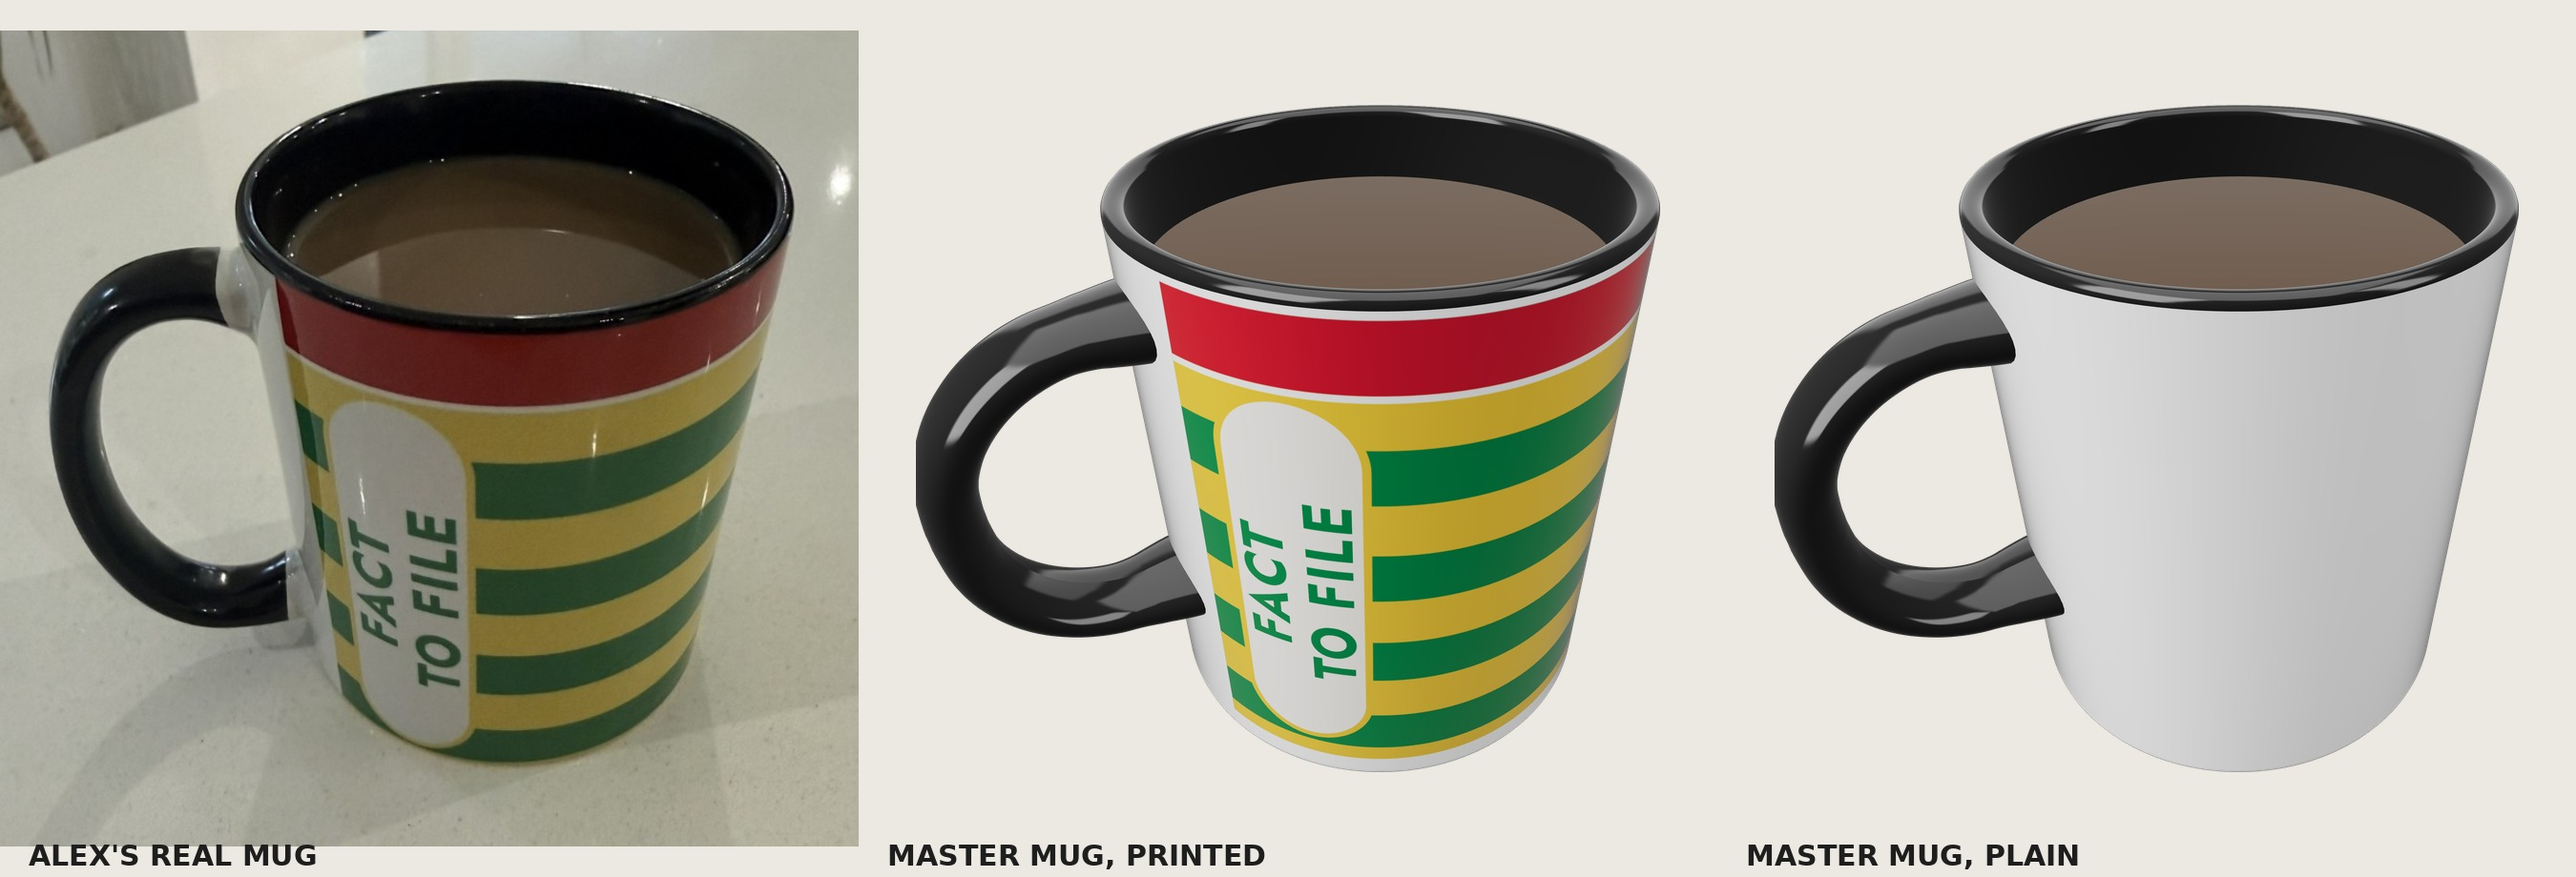
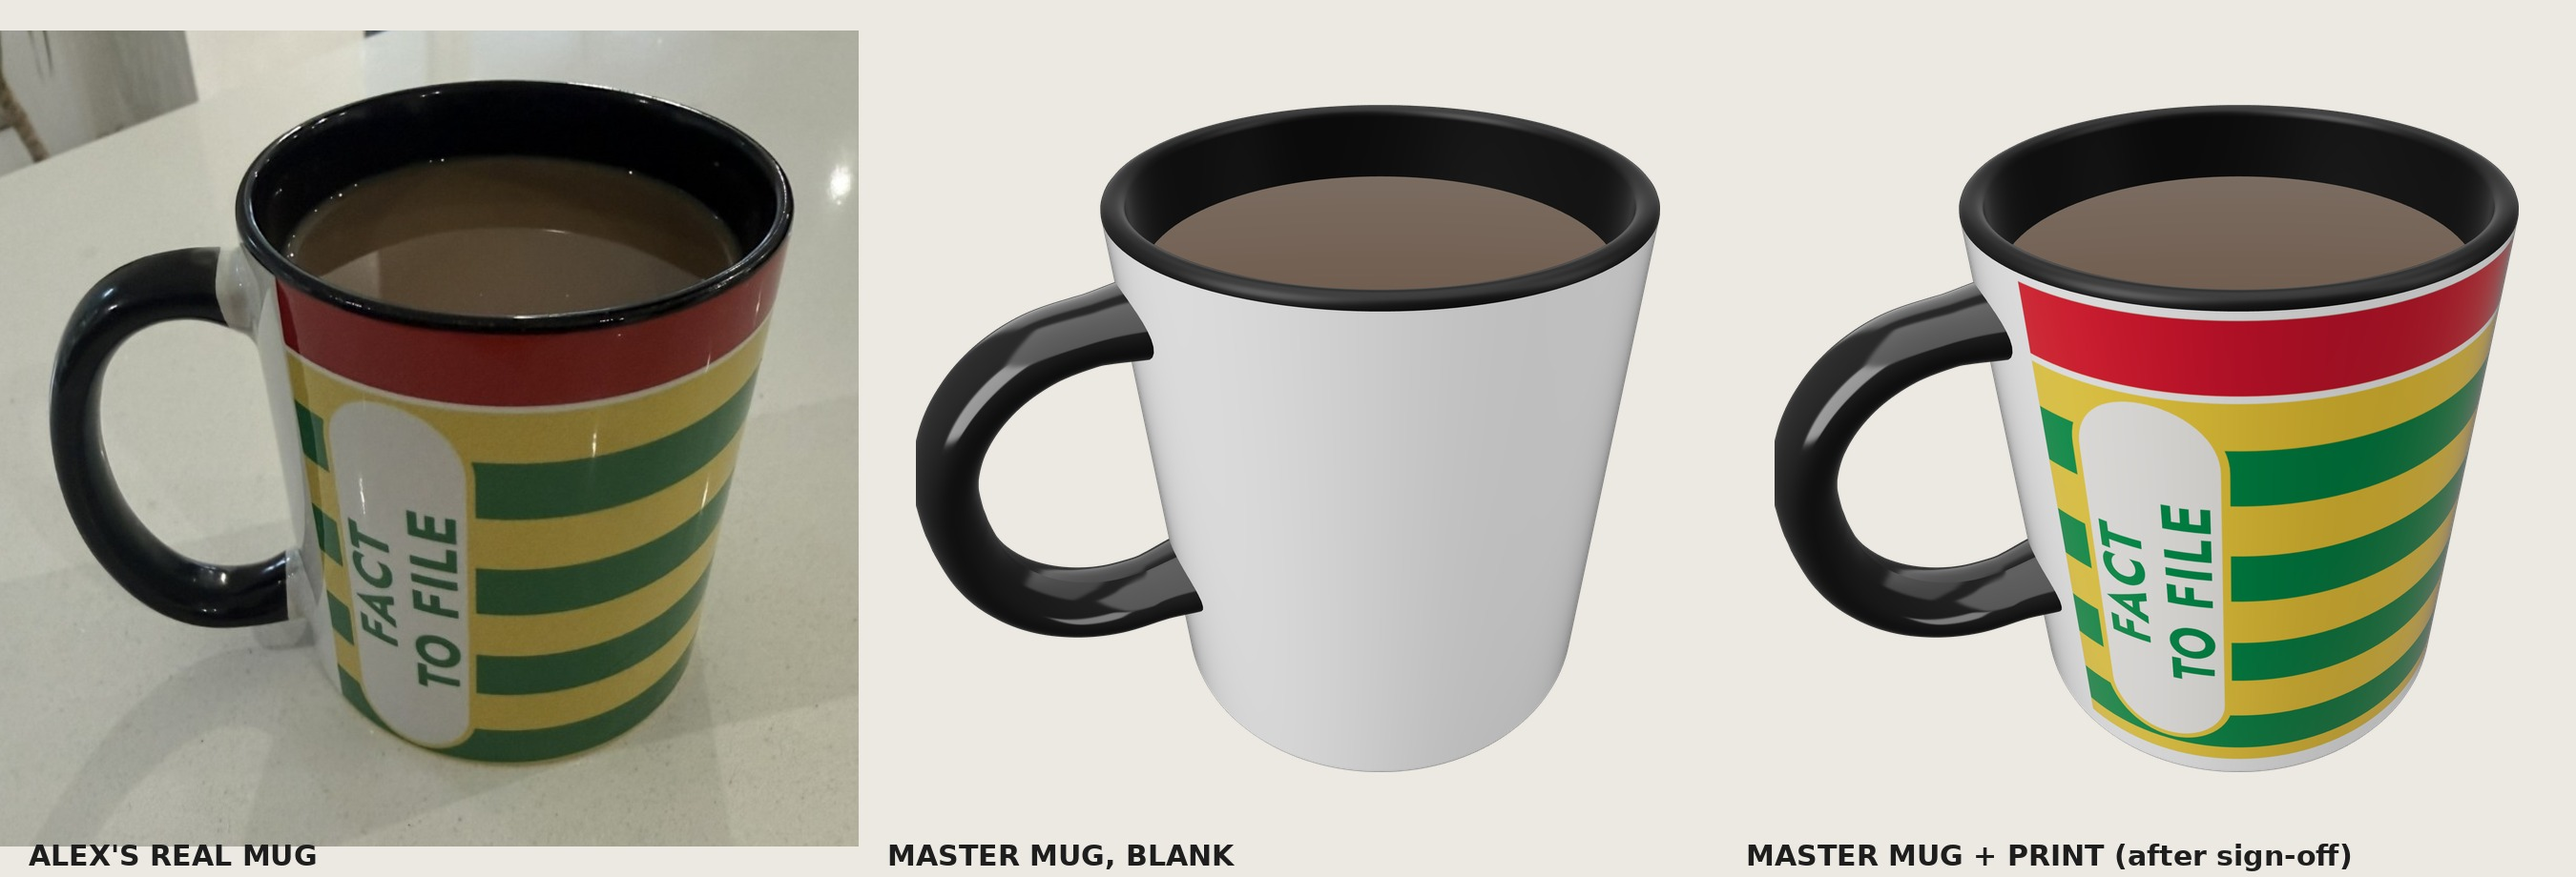
Master mug: blank all-angles sheet for sign-off, softer reflections
Claude-Session: https://claude.ai/code/session_012o9aG5DgvmXWZHsMc4KE4d

diff --git a/templates/master-mug/render.js b/templates/master-mug/render.js
@@ -36,7 +36,7 @@ const out = process.argv[2]; const o = JSON.parse(process.argv[3] || '{}'); cons
     // the cylinder's v runs over the wall only; the print canvas is laid over the whole height, so shift v to match
     const uv = wallGeo.attributes.uv; for (let i = 0; i < uv.count; i++) uv.setY(i, (e + uv.getY(i)*(wallTop - e))/HT); mug.add(new T.Mesh(wallGeo, wallMat));
     lathe([[0, 0], [R - e, 0], ...arc(R - e, e, e, -Math.PI/2, 0)], glaze('#ffffff'));                                   // flat base with a small rounded edge
-    const dark = glaze(o.inside || '#0a0a0a', { roughness: 0.12, envMapIntensity: 0.55 });
+    const dark = glaze(o.inside || '#0a0a0a', { roughness: 0.42, clearcoat: 0.35, clearcoatRoughness: 0.35, envMapIntensity: 0.45 });   // a soft sheen inside, no mirror-sharp reflections of the lights
     lathe([...arc(R - rimR, wallTop, rimR, 0, Math.PI), [R - wall, 0.7], [0, 0.7]], Object.assign(dark, { side: T.DoubleSide }));     // rim and inside
     if (o.drink !== false) { const d = new T.Mesh(new T.CircleGeometry(R - wall - 0.02, 96), new T.MeshPhysicalMaterial({ color: o.drinkColour || '#3a2416', roughness: 0.25, clearcoat: 0.6, envMapIntensity: 0.35 })); d.rotation.x = -Math.PI/2; d.position.y = HT - M.drinkBelowRim; mug.add(d); }
     // the handle: one smooth D-shaped strap that flares into the body at both ends
@@ -47,7 +47,7 @@ const out = process.argv[2]; const o = JSON.parse(process.argv[3] || '{}'); cons
       for (let j = 0; j <= S; j++) { const a = j/S*Math.PI*2; const v = c.clone().addScaledVector(nrm, Math.cos(a)*M.handle.thick/2*fl).addScaledVector(bin, Math.sin(a)*M.handle.width/2*fl); pos.push(v.x, v.y, v.z); } }
     for (let i = 0; i < N; i++) for (let j = 0; j < S; j++) { const a = i*(S + 1) + j, c2 = a + S + 1; idx.push(a, c2, a + 1, a + 1, c2, c2 + 1); }
     const hg = new T.BufferGeometry(); hg.setAttribute('position', new T.Float32BufferAttribute(pos, 3)); hg.setIndex(idx); hg.computeVertexNormals();
-    mug.add(new T.Mesh(hg, Object.assign(glaze(o.handle || '#0a0a0a', { roughness: 0.1, envMapIntensity: 0.55 }), { side: T.DoubleSide })));
+    mug.add(new T.Mesh(hg, Object.assign(glaze(o.handle || '#0a0a0a', { roughness: 0.14, envMapIntensity: 0.5 }), { side: T.DoubleSide })));
     mug.rotation.y = (o.az || 0)*Math.PI/180;
     // camera: looks at the middle of the mug from `el` degrees above; the mug fills `fill` of the frame
     const fov = o.fov || 28, el = (o.el == null ? 12 : o.el)*Math.PI/180; const cam = new T.PerspectiveCamera(fov, W/H, 1, 500);
